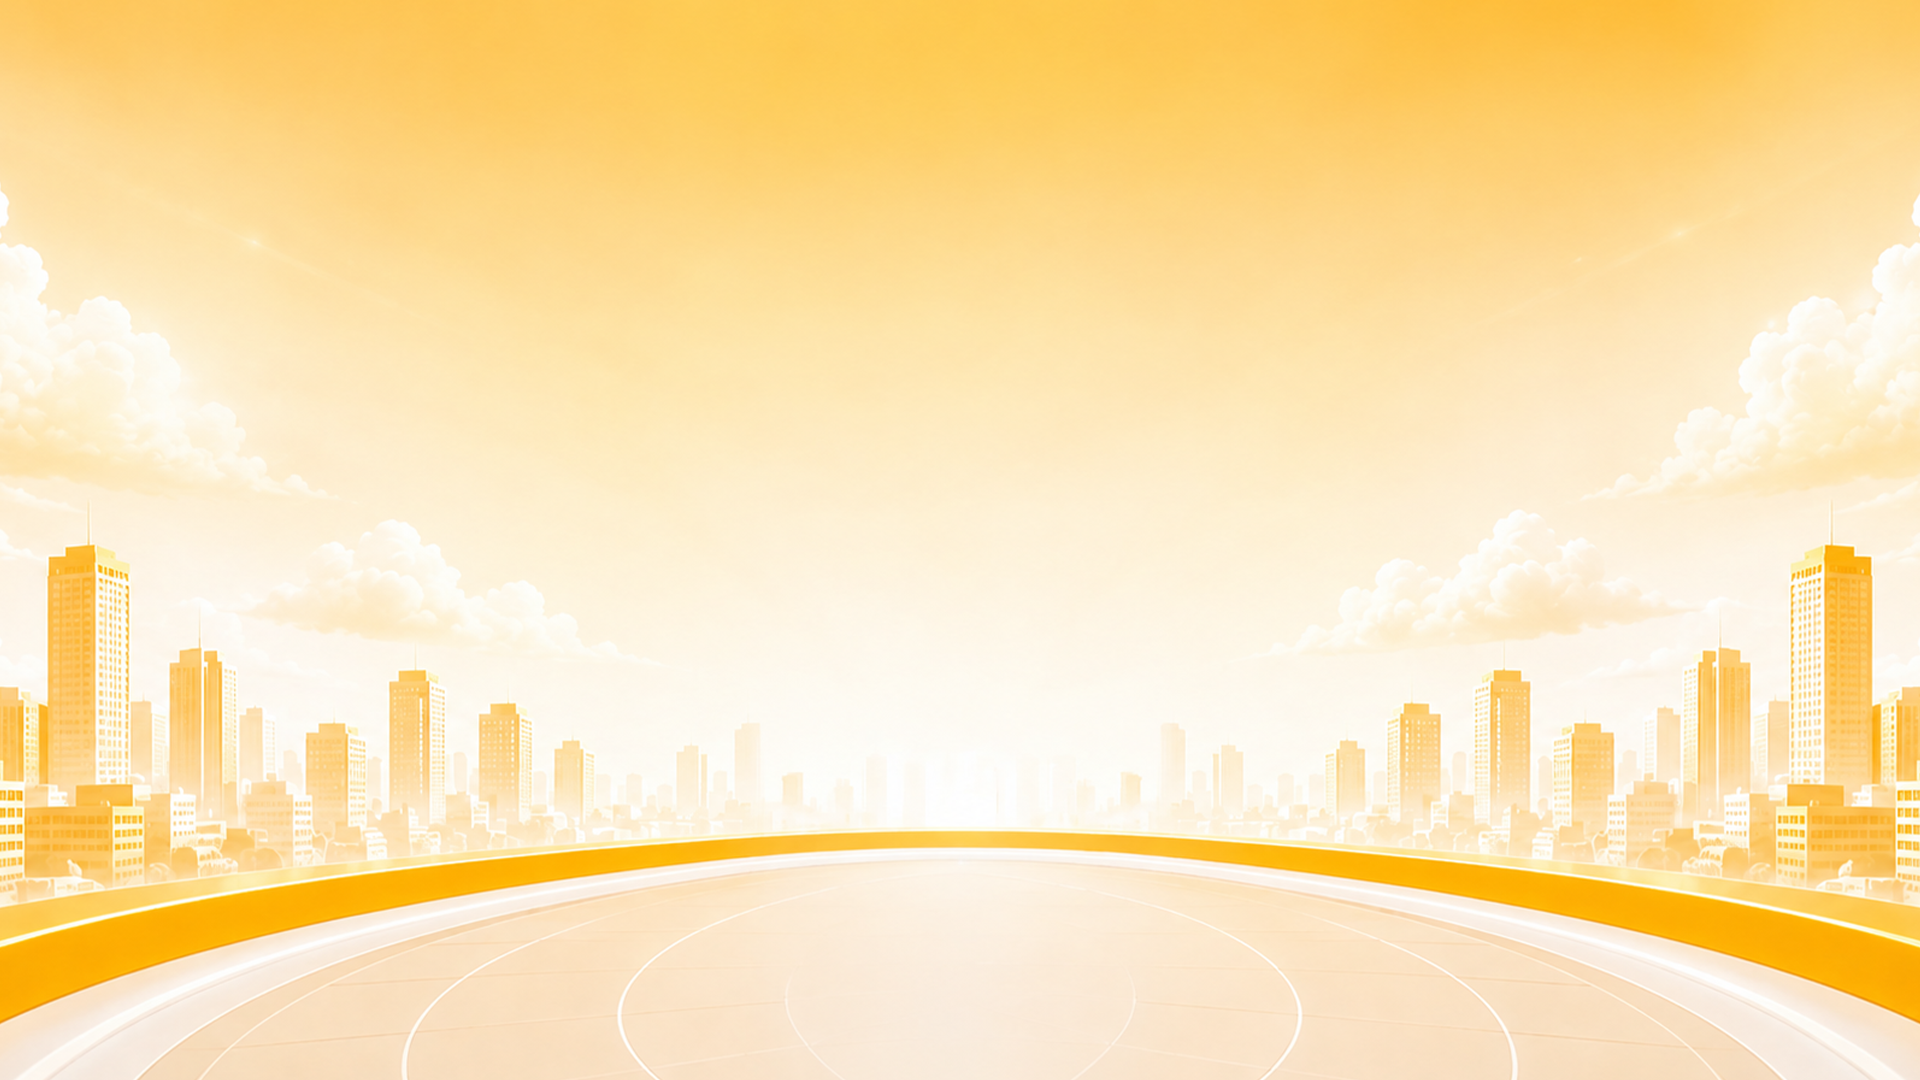
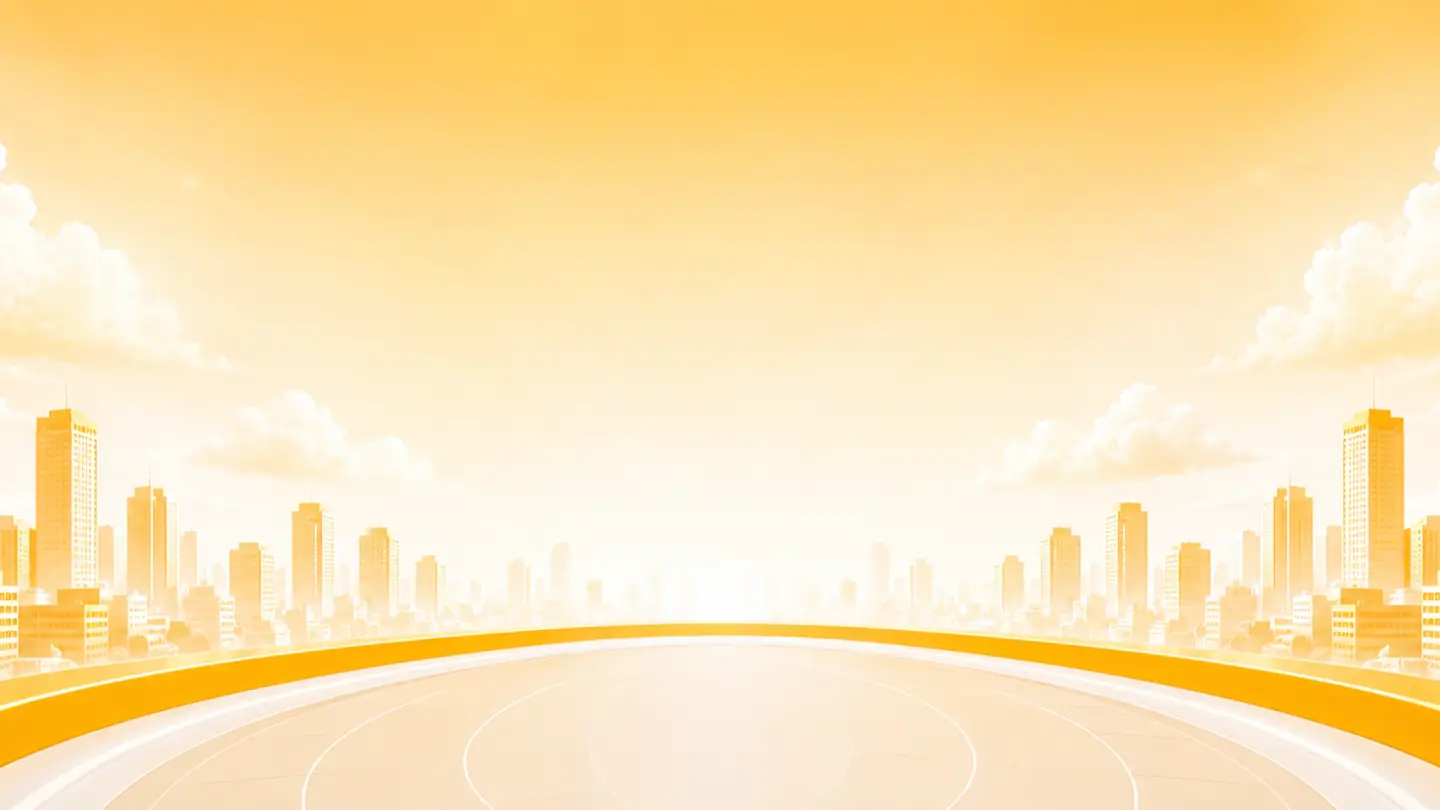
update performance mobile

diff --git a/apps/client/src/components/common/DeferredMainChrome.tsx b/apps/client/src/components/common/DeferredMainChrome.tsx
@@ -1,0 +1,39 @@
+"use client";
+
+import { useEffect, useState } from "react";
+import dynamic from "next/dynamic";
+
+const ProfileCompletionGate = dynamic(
+  () => import("@/components/auth/ProfileCompletionGate"),
+  { ssr: false },
+);
+const FloatingActions = dynamic(
+  () => import("@/components/common/FloatingActions"),
+  { ssr: false },
+);
+const FloatingContactButton = dynamic(
+  () => import("@/components/common/FloatingContactButton"),
+  { ssr: false },
+);
+
+export default function DeferredMainChrome() {
+  const [mounted, setMounted] = useState(false);
+
+  useEffect(() => {
+    const timeoutId = window.setTimeout(() => {
+      setMounted(true);
+    }, 1200);
+
+    return () => window.clearTimeout(timeoutId);
+  }, []);
+
+  if (!mounted) return null;
+
+  return (
+    <>
+      <FloatingContactButton />
+      <FloatingActions />
+      <ProfileCompletionGate />
+    </>
+  );
+}

diff --git a/apps/client/src/app/(main)/layout.tsx b/apps/client/src/app/(main)/layout.tsx
@@ -1,9 +1,7 @@
 import Header from "@/components/common/Header";
 import Footer from "@/components/common/Footer";
-import FloatingActions from "@/components/common/FloatingActions";
-import FloatingContactButton from "@/components/common/FloatingContactButton";
 import SubHeader from "@/components/common/SubHeader";
-import ProfileCompletionGate from "@/components/auth/ProfileCompletionGate";
+import DeferredMainChrome from "@/components/common/DeferredMainChrome";
 
 export default async function MainLayout({
   children,
@@ -16,9 +14,7 @@ export default async function MainLayout({
       <Header />
       <main className="grow pb-24 pt-28 md:pb-0">{children}</main>
       <Footer />
-      <FloatingContactButton />
-      <FloatingActions />
-      <ProfileCompletionGate />
+      <DeferredMainChrome />
     </div>
   );
 }